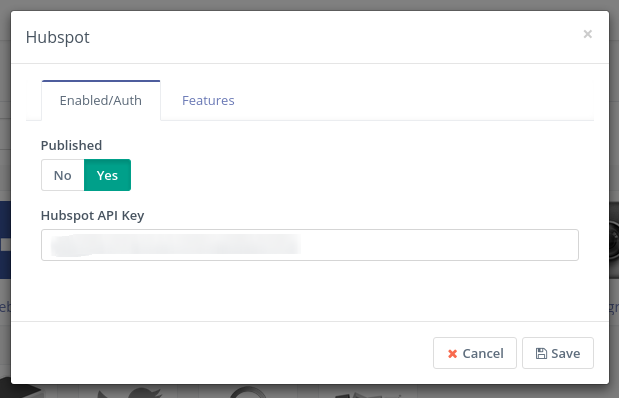
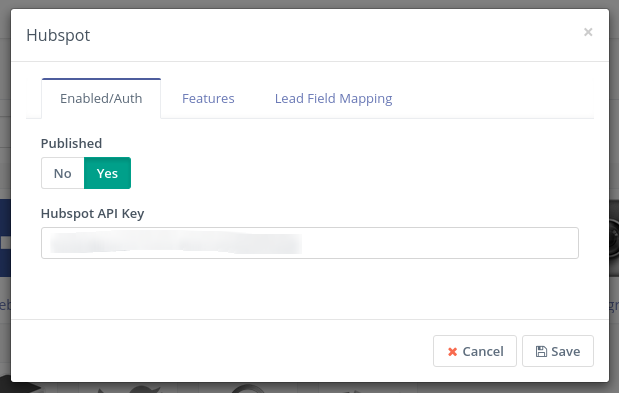
Field mapping described

diff --git a/plugins/hubspot_crm.md b/plugins/hubspot_crm.md
@@ -14,7 +14,11 @@ Open the Hubspot Plugin configuration and paste the API key into the *Hubspot AP
 
 ![Hubspot CRM Plugin configuration](/plugins/media/plugins-hubspot-crm-configuration.png "Hubspot CRM Plugin configuration")
 
-In the Features tab is just *Push leads to this integration* checkbox and it is checked by default, so we are done here. Save it.
+In the Features tab is just *Push leads to this integration* checkbox and it is checked by default. At the *Lead Field Mapping* tab is the list of available Hubspot CRM Contact Fields. You have to select the Mautic Lead Field equivalent so each field will get the right value. You don't have to map every field. Map only those you want to push into the Hubspot CRM.
+
+![Hubspot CRM Plugin Lead Fiedl Mapping](/plugins/media/plugins-hubspot-crm-mapping.png "Hubspot CRM Plugin Lead Fiedl Mapping")
+
+Save the plugin configuration.
 
 ## Test the plugin
 
@@ -28,4 +32,14 @@ Use any of those triggers to test the plugin and see if the lead appears in the 
 
 ![Push to Hubspot CRM form action](/plugins/media/plugins-push-to-hubspot-crm-form-action.png "Push to Hubspot CRM form action")
 
-After you have your form with some fields and the Push to Hubspot CRM action, go to the form public URL at http://[yourmautic]/form/[formID], fill in some sample lead information and submit it. Then check the Hubspot CRM if the new contact has been created.
+After you have your form with some fields (for example an email and a first name field) and the Push to Hubspot CRM action, go to the form public URL at http://[yourmautic]/form/[formID], fill in some sample lead information and submit it. Then check the Hubspot CRM if the new contact has been created.
+
+## Troubleshooting
+
+If the contact hasn't been created, make sure that the email address you'd tested it with is valid. Hubspot will create a new contact only when its email address is valid.
+
+If the first name value hasn't been transferred, make sure you mapped the form field value to the lead field value in the form field configuration.
+
+## Credit
+
+This plugin had been developed by [@gpassarelli](https://github.com/gpassarelli).
